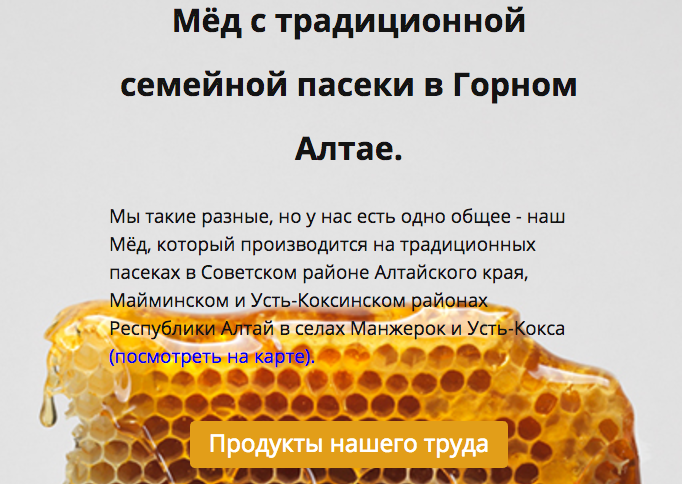
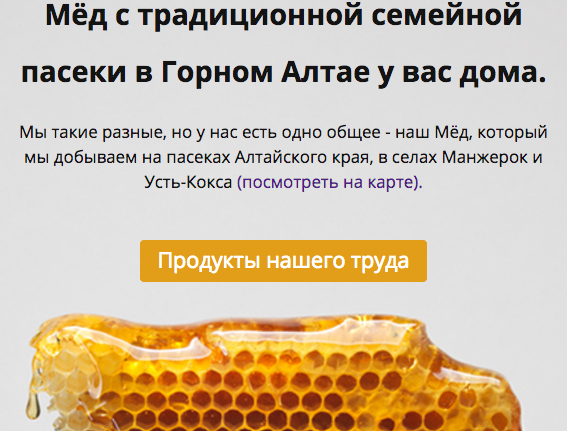
some changes

diff --git a/index.html b/index.html
@@ -12,14 +12,14 @@
 <body>  
     <div class="site-wrapper">
         <header class="header">
-             <div class="menu__mobile-logo"><span class="burger-img"></span>
+             <!-- <div class="menu__mobile-logo"><span class="burger-img"></span>
                 <ul class="menu__list-mobile">
                     <li class="menu__item-mobile"><a href="#works" class="menu__link">Works</a></li>
                     <li class="menu__item-mobile"><a href="#about" class="menu__link">
                         About</a></li>
                     <li class="menu__item-mobile"><a href="#social" class="menu__link">Contacts</a></li>
                 </ul>
-            </div>
+            </div> -->
             <ul class="menu__list">
                 <li class="menu__item"><a href="#info" class="menu__link">Works</a></li>
                 <li class="menu__item"><a href="#about" class="menu__link">About</a></li>
@@ -27,24 +27,23 @@
             </ul>
         </header>
         <main class="main">
-            <section id="about">                
+            <section id="about"> 
                 <label for="english" class="switch-lang">Eng</label>
                 <input type="radio" name="lang" id="english">
                 <label for="russian" class="switch-lang">Rus</label>
-                <input type="radio" name="lang" id="russian">                                            
+                <input type="radio" name="lang" id="russian">  
+                <img src="img/photo-cv.jpg" alt="Саша Катушкова" class="about-photo">              
                 <div class="about-wrapper">
                     <div class="russian">
-
-                        <h2 class="about-header">Привет! Меня зовут Саша.</h2>
-                        <p class="about-text">
-                             В конце 2016 года я начала изучать  верстку, заинтересовавшись веб-разработкой. Это оказалось очень интересным и затягивающим занятием.  
-                            <p class="about-text">Сейчас у меня есть навыки адаптивной и кроссбраузерной верстки. Применяю Java Script для внедрения пользовательских удобностей, но в дальнейшем хочу освоить этот язык много глубже. В работе использую методологию БЭМ, препроцессор Less, собираю проекты с помощью Gulp. Эта страничка сделана уже с помощью grid раскладки. Код можно посмотреть на <a href="https://github.com/SashaKa/SashaKa.github.io" class="about-link">Github
-                            </a>. Так же могу верстать адаптивные электронные письма. </p>
-                            <p class="about-text">Смело <a class="about-link" href="#social">пишите мне</a>, всегда рада знакомству и сотрудничеству с интересными людьми, профессионалами.</p>
+                        <h1 class="about-header">Привет! Меня зовут Саша, я начинающий фронт-енд разработчик.</h1>
+                        <p class="about-text">В конце 2016 года я начала изучать  верстку, заинтересовавшись веб-разработкой. Это оказалось очень интересным и затягивающим занятием.  
+                        <p class="about-text">Сейчас у меня есть навыки адаптивной и кроссбраузерной верстки. Применяю Java Script для внедрения пользовательских удобностей, но в дальнейшем хочу освоить этот язык много глубже. В работе использую методологию БЭМ, препроцессор Less, собираю проекты с помощью Gulp. Эта страничка сделана уже с помощью grid раскладки. Код можно посмотреть на <a href="https://github.com/SashaKa/SashaKa.github.io" class="about-link">Github
+                        </a>. Так же могу верстать адаптивные электронные письма. </p>
+                        <p class="about-text">Смело <a class="about-link" href="#social">пишите мне</a>, всегда рада знакомству и сотрудничеству с интересными людьми, профессионалами.</p>
                         </p>
                     </div>
                     <div class="english">
-                        <h2 class="about-header">Hello! My name is Sasha</h2>
+                        <h1 class="about-header">Hello! My name is Sasha, I'm a junior frontend developer.</h1>
                         <p class="about-text ">
                             At the end of 2016 I began to study CSS and HTML interested in web development. This turned out to be a very interesting and addictive work.</p>
                         <p class="about-text ">
@@ -55,7 +54,7 @@
                             Feel free to <a class="about-link" href="#social">write to me,</a> always glad to get acquainted and cooperate with interesting people, professionals.
                         </p>      
                     </div>
-                </div>  
+                </div> 
             </section>
             <section id="works">
                 <ul class="works-list">
@@ -109,7 +108,7 @@
                             </div>
                         </a>
                     </li>
-                    <li class="works-list__item">                 
+                    <!-- <li class="works-list__item">                 
                         <svg class="top-right" width="100" height="100">
                             <circle class="top-right-circle" r="25" cx="50" cy="50" />
                         </svg> 
@@ -117,7 +116,7 @@
                             <h3 class="work-list__title">Your's order</h3>
                             <p class="work-list__description">Space for your's responsive page </p>
                         </div>                   
-                    </li>
+                    </li> -->
                 </ul>
             </section>
             <section id="social">

diff --git a/works/Honey_page/index.html b/works/Honey_page/index.html
@@ -54,7 +54,7 @@
                 </section>
             </div>
             <div class="promo">
-                <h1 class="header-text">Мёд с традиционной семейной пасеки в Горном Алтае.</h1>
+                <h1 class="header-text">Мёд с традиционной семейной пасеки в Горном Алтае у вас дома.</h1>
                 <h3 class="promo__post-header"> Мы такие разные, но у нас есть одно общее - наш Мёд, который мы добываем на пасеках Алтайского края, в селах Манжерок и Усть-Кокса<a href="#map" class="map-link"> (посмотреть на карте).</a>
                 </h3>
                 <a class="product-btn" href="#assortment">Продукты нашего труда</a>
@@ -101,7 +101,7 @@
             </div>
             <div class="wrap-block">
                 <div class="wrap-img">
-                    <img class="product-img" src="img/honey2.jpg" alt="med s pilcoi">
+                     <img class="product-img" src="img/honey2.jpg" alt="med s pilcoi"> 
                 </div>
                 <div class="about-product">
                     <h2 class="title-product">Медовая композиция с пыльцой</h2>
@@ -190,7 +190,7 @@
             </div>
         </section>
         <section id="distributers">
-            <h2 class="distributers-title">Мед можно купить, связавшись</h2>
+            <h2 class="distributers-title">Мед можно купить</h2>
             <div class="distributer-wrap">
                 <div class="distributer-card" id="altai">
                     <p class="title-city">в Горно-Алтайске</p>

diff --git a/css/style.css b/css/style.css
@@ -89,7 +89,7 @@ a {
   width: 48%;
 }
 .promo__post-header {
-  text-align: center;
+  text-align: left;
   margin: 1.2rem;
   font-weight: 400;
   line-height: 1.5;
@@ -358,8 +358,6 @@ a {
   -ms-flex-align: center;
   align-items: center;
   color: rgba(97, 97, 97, 0.39);
-  background: url(../img/bg-bee.jpg) repeat center;
-  background-size: contain;
 }
 @media screen and (max-width: 760px) {
   #aboutus {
@@ -392,32 +390,20 @@ a {
   margin-top: 1rem;
   position: relative;
 }
-@media screen and (max-width: 760px) {
-  .text-block-content {
-    width: 75%;
-  }
-}
 .text-block-content:before,
 .text-block-content:after {
   position: absolute;
   content: "";
-  width: 40px;
-  height: 40px;
+  width: 60px;
+  height: 60px;
   background: url(../img/quotes.svg) no-repeat center;
-}
-@media screen and (max-width: 760px) {
-  .text-block-content:before,
-  .text-block-content:after {
-    width: 20px;
-    height: 20px;
-  }
 }
 .text-block-content::before {
   top: 0;
-  left: -57px;
+  left: -87px;
 }
 .text-block-content::after {
-  right: -47px;
+  right: -97px;
   bottom: 0;
 }
 .text-block-content .map-link {
@@ -690,8 +676,7 @@ a {
 }
 #distributers {
   width: 100%;
-  background: url(../img/bg-bee.jpg) repeat center center;
-  background-size: contain;
+  background-image: url(../img/bg-bee.jpg);
 }
 .distributer-wrap {
   display: -ms-flexbox;
@@ -725,17 +710,14 @@ a {
   height: 10.1rem;
   border-radius: 50%;
 }
-.title-city {
-  font-weight: 600;
-}
 .title-city,
 .distributer-name {
   line-height: 1.8rem;
+  font-weight: 500;
   font-size: 1.5rem;
 }
 .distributer-name {
   font-style: italic;
-  font-weight: 500;
 }
 .distributers-contact {
   margin: 1.2rem auto;

diff --git a/css/styles.css b/css/styles.css
@@ -87,53 +87,9 @@ body {
 .menu__item-mobile {
   padding: 0 3rem;
 }
-@media (min-width: 320px) and (max-width: 767px) {
-  .menu__mobile-logo {
-    display: block;
-  }
-}
 @media (min-width: 768px) and (max-width: 2219px) {
   .menu__mobile-logo {
     display: none;
-  }
-}
-.show-menu {
-  visibility: visible;
-  left: 0;
-  z-index: 2;
-}
-.burger-img {
-  width: 70px;
-  height: 70px;
-  display: block;
-  background: url('../img/menu-button.svg') no-repeat center;
-  background-size: cover;
-  cursor: pointer;
-  position: relative;
-  margin: 0 auto;
-}
-.animation-on {
-  -webkit-animation: burger-rotate 0.4s;
-  animation: burger-rotate 0.4s;
-}
-@-webkit-keyframes burger-rotate {
-  0% {
-    -webkit-transform: rotateX(-180deg);
-    transform: rotateX(-180deg);
-  }
-  100% {
-    -webkit-transform: translateY(90deg);
-    transform: translateY(90deg);
-  }
-}
-@keyframes burger-rotate {
-  0% {
-    -webkit-transform: rotateX(-180deg);
-    transform: rotateX(-180deg);
-  }
-  100% {
-    -webkit-transform: translateY(90deg);
-    transform: translateY(90deg);
   }
 }
 input[type=radio] {
@@ -141,10 +97,13 @@ input[type=radio] {
 }
 .switch-lang {
   border-bottom: 2px;
-  margin: 1rem 0;
+  margin: 2rem 0;
   cursor: pointer;
-  font-size: 1.2rem;
+  font-size: 1.5rem;
   font-weight: 200;
+}
+.switch-lang:first-child {
+  margin-left: 20%;
 }
 .switch-lang:hover {
   color: #9da15e;
@@ -391,6 +350,12 @@ input[type=radio] {
   .about-wrapper {
     padding: 0 5rem;
   }
+}
+.about-photo {
+  margin: 5%  10%;
+  width: 200px;
+  height: 100%;
+  border-radius: 50%;
 }
 .about-text {
   color: #d6e5ab;

diff --git a/works/Honey_page/Honey.js b/works/Honey_page/Honey.js
@@ -40,3 +40,4 @@ closeBtn2.addEventListener('click', () => {
 closeBtn3.addEventListener('click', () => {
     reward.classList.remove('document-show')
 })
+
